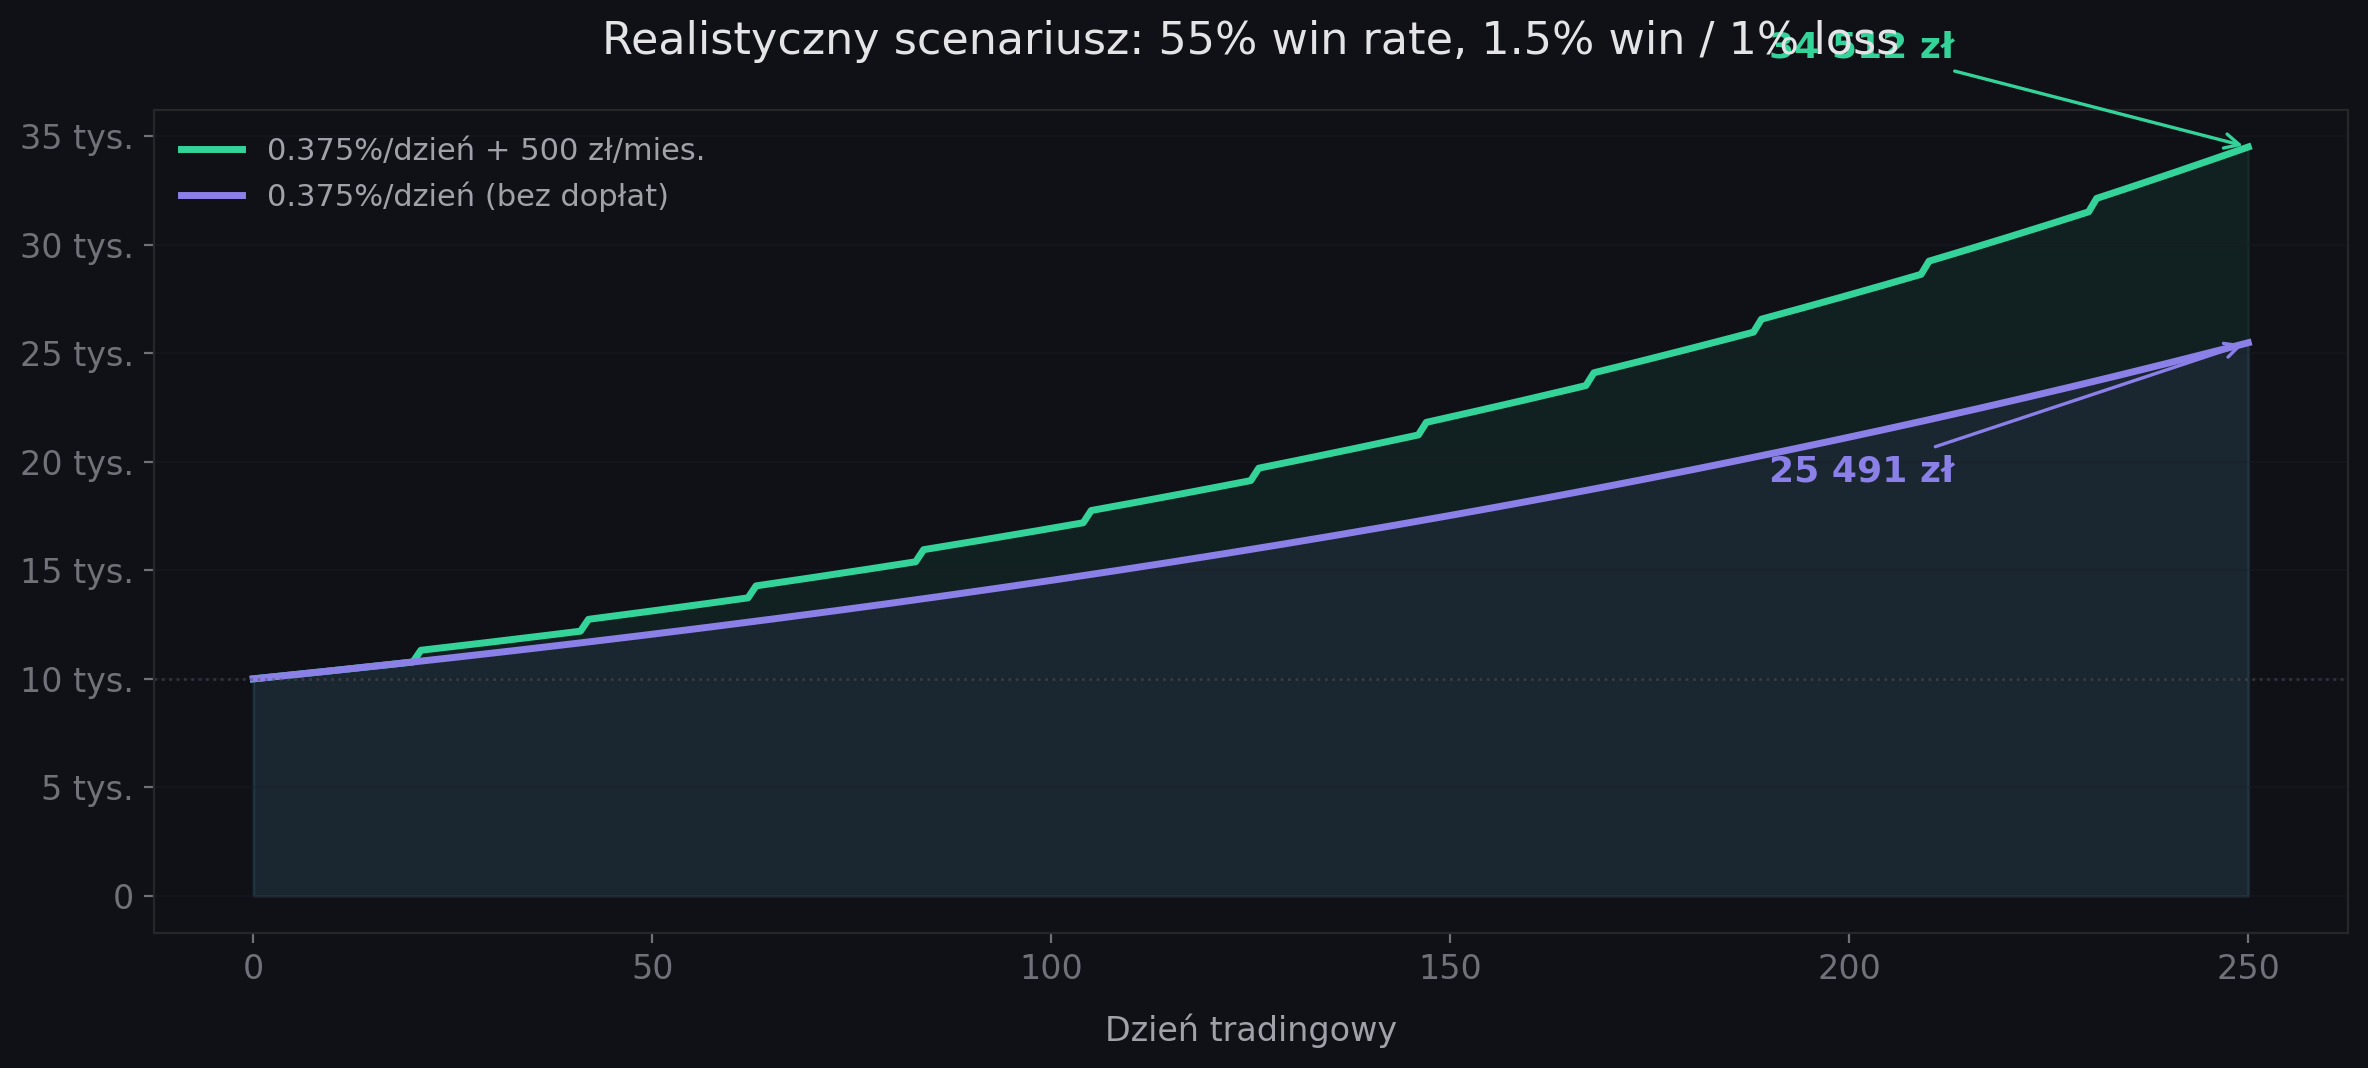
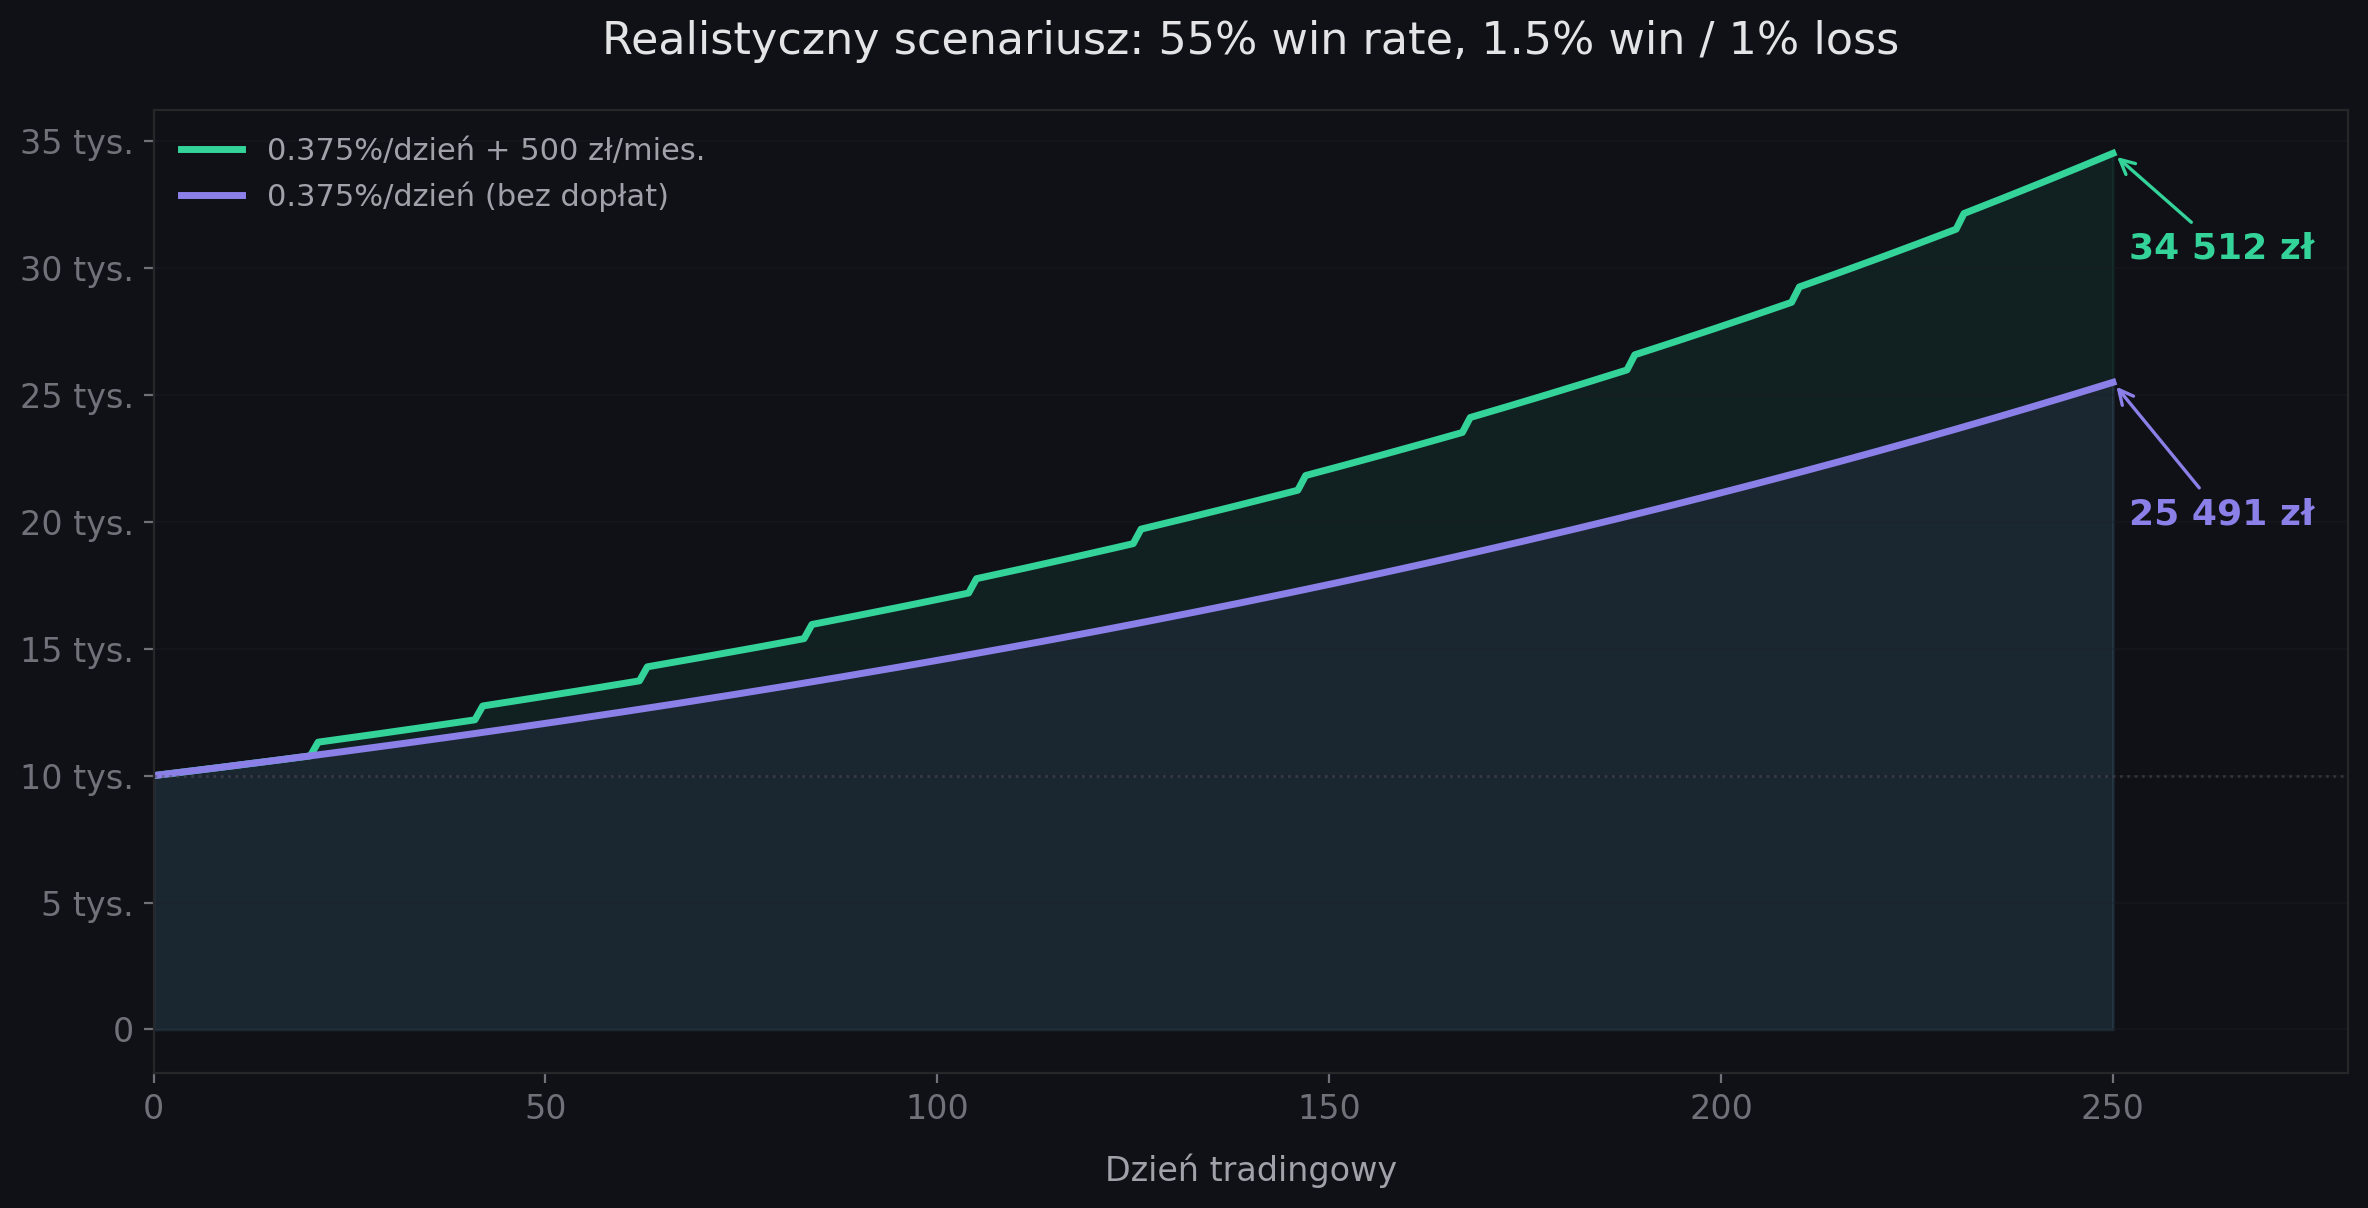
feat: podmień wykres, powiększ obrazki, dodaj lightbox zoom

diff --git a/src/components/BlogImageLightbox.tsx b/src/components/BlogImageLightbox.tsx
@@ -1,0 +1,56 @@
+'use client';
+
+import { useEffect } from 'react';
+
+export default function BlogImageLightbox() {
+  useEffect(() => {
+    const content = document.querySelector('.blog-post-content');
+    if (!content) return;
+
+    const images = content.querySelectorAll('img');
+
+    // Create overlay
+    const overlay = document.createElement('div');
+    overlay.id = 'img-lightbox';
+    overlay.innerHTML = `
+      <button class="lightbox-close" aria-label="Zamknij">✕</button>
+      <img class="lightbox-img" src="" alt="" />
+    `;
+    document.body.appendChild(overlay);
+
+    const lightboxImg = overlay.querySelector('.lightbox-img') as HTMLImageElement;
+    const closeBtn = overlay.querySelector('.lightbox-close') as HTMLButtonElement;
+
+    const open = (src: string, alt: string) => {
+      lightboxImg.src = src;
+      lightboxImg.alt = alt;
+      overlay.classList.add('active');
+      document.body.style.overflow = 'hidden';
+    };
+
+    const close = () => {
+      overlay.classList.remove('active');
+      document.body.style.overflow = '';
+    };
+
+    images.forEach((img) => {
+      img.style.cursor = 'zoom-in';
+      img.addEventListener('click', () => open(img.src, img.alt));
+    });
+
+    closeBtn.addEventListener('click', close);
+    overlay.addEventListener('click', (e) => {
+      if (e.target === overlay) close();
+    });
+
+    const onKey = (e: KeyboardEvent) => { if (e.key === 'Escape') close(); };
+    document.addEventListener('keydown', onKey);
+
+    return () => {
+      document.removeEventListener('keydown', onKey);
+      overlay.remove();
+    };
+  }, []);
+
+  return null;
+}

diff --git a/src/app/globals.css b/src/app/globals.css
@@ -836,11 +836,62 @@ a { color: inherit; text-decoration: none; }
 
 .blog-post-content img {
   max-width: 100%;
+  width: 100%;
   height: auto;
   display: block;
-  margin: 32px auto;
+  margin: 40px auto;
   border-radius: 8px;
   border: 1px solid var(--border);
+  transition: opacity 0.2s, box-shadow 0.2s;
+}
+
+.blog-post-content img:hover {
+  opacity: 0.92;
+  box-shadow: 0 0 0 2px var(--cyan);
+}
+
+/* Lightbox */
+#img-lightbox {
+  display: none;
+  position: fixed;
+  inset: 0;
+  z-index: 9999;
+  background: rgba(0, 0, 0, 0.92);
+  align-items: center;
+  justify-content: center;
+  cursor: zoom-out;
+}
+
+#img-lightbox.active {
+  display: flex;
+}
+
+.lightbox-img {
+  max-width: 92vw;
+  max-height: 90vh;
+  width: auto;
+  height: auto;
+  border-radius: 8px;
+  box-shadow: 0 8px 64px rgba(0, 0, 0, 0.8);
+  cursor: default;
+}
+
+.lightbox-close {
+  position: absolute;
+  top: 20px;
+  right: 28px;
+  background: none;
+  border: none;
+  color: #fff;
+  font-size: 1.6rem;
+  cursor: pointer;
+  opacity: 0.7;
+  line-height: 1;
+  padding: 4px 8px;
+}
+
+.lightbox-close:hover {
+  opacity: 1;
 }
 
 /* All blog page */

diff --git a/src/app/blog/[slug]/page.tsx b/src/app/blog/[slug]/page.tsx
@@ -5,6 +5,7 @@ import Nav from '@/components/Nav';
 import Footer from '@/components/Footer';
 import ReadingProgress from '@/components/ReadingProgress';
 import RelatedPosts from '@/components/RelatedPosts';
+import BlogImageLightbox from '@/components/BlogImageLightbox';
 import { getPostBySlug, getAllSlugs, getAllPosts } from '@/lib/posts';
 import { remark } from 'remark';
 import remarkHtml from 'remark-html';
@@ -180,6 +181,7 @@ export default async function BlogPostPage({ params }: Props) {
         </div>
 
         {/* Content */}
+        <BlogImageLightbox />
         <div
           className="blog-post-content"
           dangerouslySetInnerHTML={{ __html: contentHtml }}
